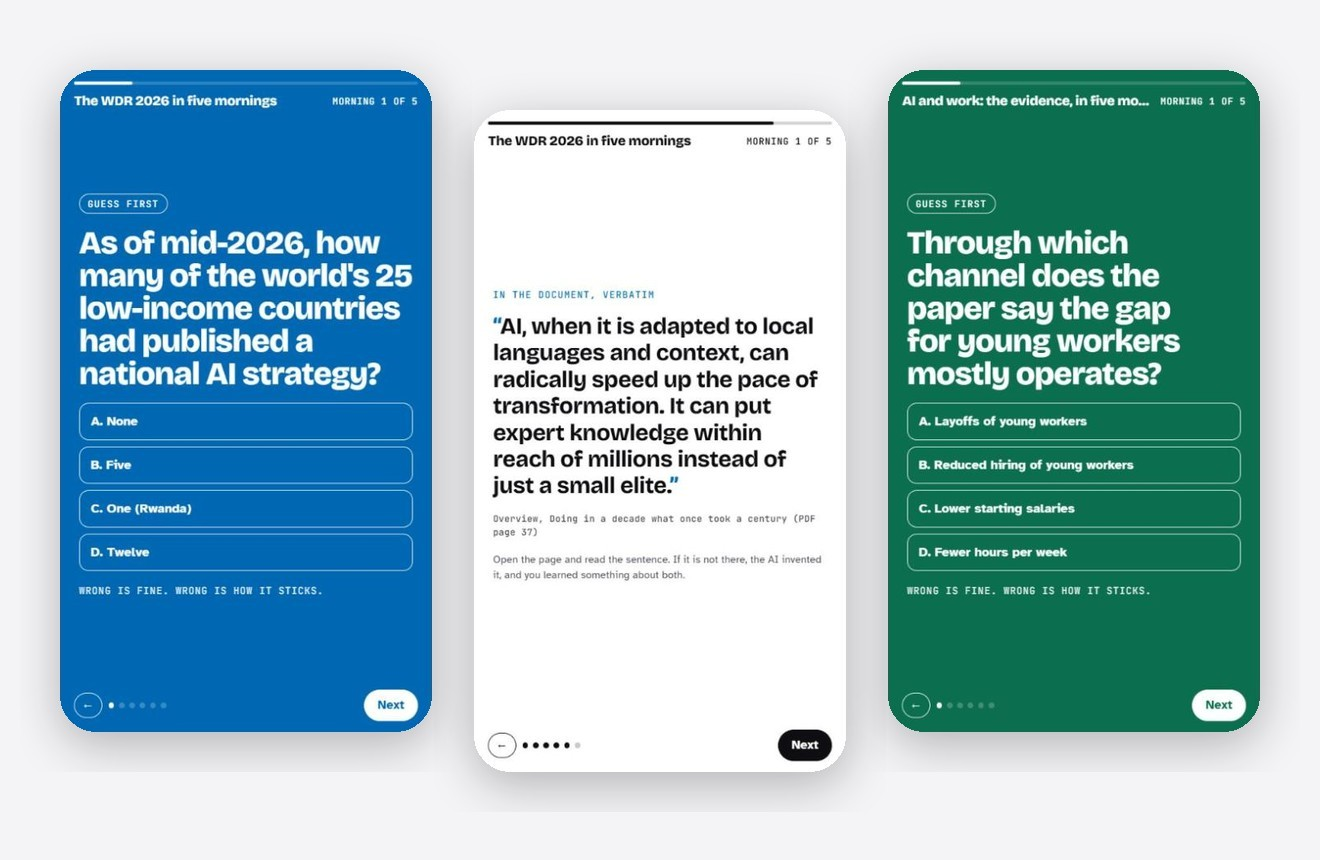
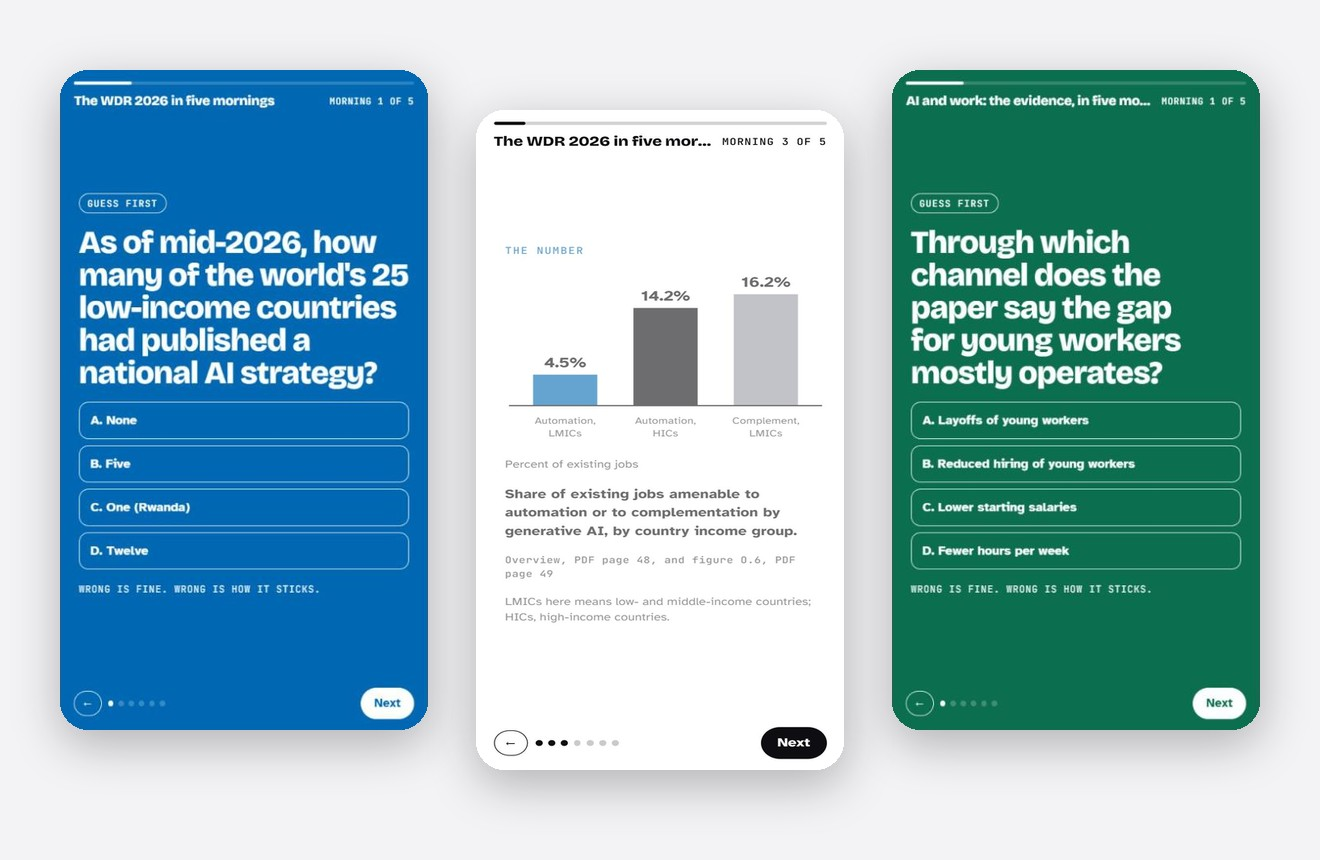
Five Mornings: a chart page in every morning, like Papers; hero shows it

diff --git a/course/course.html b/course/course.html
@@ -45,6 +45,9 @@ body { background:#e9e9ee; color:var(--ink); font-family:var(--f-body); margin:0
 .cita { font-family:var(--f-display); font-weight:700; font-size:clamp(1.3rem, 5.6vw, 1.8rem); line-height:1.15; letter-spacing:-.01em; margin:0; }
 .cita::before { content:"\201C"; color:var(--tema); } .cita::after { content:"\201D"; color:var(--tema); }
 .origen { font-family:var(--f-mono); font-size:.7rem; letter-spacing:.03em; color:var(--ink-2); line-height:1.5; margin:0; }
+.cifra-grande { font-family:var(--f-display); font-weight:800; font-size:clamp(3rem, 14vw, 4.4rem); line-height:.9; letter-spacing:-.03em; color:var(--tema); margin:0; }
+.leyenda { font-size:.98rem; line-height:1.45; margin:0; font-weight:700; }
+.grafico { width:100%; height:auto; display:block; } svg text { font-family:var(--f-body); }
 .recuerda { background:var(--tema); color:var(--tema-tinta); padding:16px 18px; border-radius:6px; font-family:var(--f-display); font-weight:700; font-size:1.2rem; line-height:1.2; margin:0; }
 .recuerda small { display:block; font-family:var(--f-mono); font-weight:500; font-size:.68rem; letter-spacing:.1em; text-transform:uppercase; opacity:.85; margin-bottom:6px; }
 .fuente { font-size:.88rem; color:var(--ink-2); line-height:1.6; border-top:1px solid var(--rule); padding-top:10px; }
@@ -159,6 +162,7 @@ function pagesFor(d){
   const half = Math.ceil(paras.length/2);
   const P = [];
   if (q) P.push({k:'q'}); P.push({k:'a'});
+  if (hasFig(d)) P.push({k:'fig'});
   P.push({k:'l', html: paras.slice(0, half).join('')}); if (paras.length > half) P.push({k:'l', html: paras.slice(half).join('')});
   if (d.quote && d.quote.text) P.push({k:'quote'});
   P.push({k:'do'});
@@ -180,6 +184,10 @@ function renderPage(){
   } else if (p.k==='a'){
     const ans = q ? `<p class="etiqueta">The answer</p><h2 class="respuesta"><mark>${esc(q.options[q.answer])}</mark></h2><p class="historia">${esc(q.explain||'')}</p>` : `<p class="etiqueta">Morning ${d.n}</p><h2 class="respuesta">${esc(d.title)}</h2>`;
     paint(Object.assign(common, { html:`${ans}<p class="nota">${esc(d.hook||'')}</p>`, abajo: nav(), onTap: tapNext }));
+  } else if (p.k==='fig'){
+    // "The number": the same page EvidencIA Papers gives every study. The chart is drawn from the figures in the JSON, so a number that is not in the file cannot appear here.
+    const f = d.figure;
+    paint(Object.assign(common, { html:`<p class="etiqueta">The number</p>${f.big ? `<p class="cifra-grande">${esc(f.big)}</p>` : ''}${barras(f)}<p class="leyenda">${esc(f.caption||'')}</p>${f.where ? `<p class="origen">${esc(f.where)}</p>` : ''}${f.note ? `<p class="nota">${esc(f.note)}</p>` : ''}`, abajo: nav(), onTap: tapNext }));
   } else if (p.k==='l'){
     paint(Object.assign(common, { html:`<p class="etiqueta">${esc(d.title)}</p><div class="historia">${p.html}</div>`, abajo: nav(), onTap: tapNext }));
   } else if (p.k==='quote'){
@@ -191,6 +199,29 @@ function renderPage(){
   }
 }
 function tapNext(e){ if (e.target.closest('a,button,input,textarea')) return; next(); }
+function hasFig(d){ return !!(d.figure && Array.isArray(d.figure.bars) && d.figure.bars.length >= 2); }
+function barras(f){
+  // Same bar chart as EvidencIA Papers: up to four bars, the course color first, values printed on top, labels cut to two short lines.
+  const bs = f.bars.slice(0,4), maxV = Math.max(...bs.map(b => Math.abs(b.value)), 1e-9);
+  const neg = bs.some(b => b.value < 0);
+  const W = 320, H = 210, w = (W - 20) / bs.length, top = 30, bottom = H - 46;
+  const cero = neg ? (top + bottom) / 2 : bottom, alto = neg ? (bottom - top) / 2 : bottom - top;
+  const pre = f.prefix || '', suf = f.suffix || '';
+  const valor = v => (v < 0 ? '−' : (neg && v > 0 ? '+' : '')) + pre + String(Math.abs(v)) + suf;
+  const lim = Math.max(10, Math.floor(w / 6.4));
+  const corte = (s, k) => { const out = ['', '']; let j = 0; for (const p of String(s).split(' ')){ if ((out[j] + ' ' + p).trim().length > lim && j === 0 && out[0]) j = 1; out[j] = (out[j] + ' ' + p).trim(); } return out[k].slice(0, lim + 4); };
+  const tema = (cur && cur.color) || '#2f4bff';
+  const tonos = [tema, '#0d0d12', '#9a9aa6', '#c9c9d2'];
+  const aria = bs.map(b => b.label + ' ' + valor(b.value)).join(', ');
+  return `<svg class="grafico" viewBox="0 0 ${W} ${H}" role="img" aria-label="${esc(aria)}">
+    ${bs.map((b, k) => { const h = (Math.abs(b.value) / maxV) * alto; const cx = 10 + k * w + w / 2; const y = b.value >= 0 ? cero - h : cero; const ty = b.value >= 0 ? cero - h - 9 : cero + h + 20; return `
+      <rect x="${cx - w * 0.32}" y="${y}" width="${w * 0.64}" height="${Math.max(h, 2)}" fill="${tonos[k % 4]}"/>
+      <text x="${cx}" y="${ty}" text-anchor="middle" font-size="17" font-weight="700" fill="#0d0d12">${esc(valor(b.value))}</text>
+      <text x="${cx}" y="${H - 24}" text-anchor="middle" font-size="11.5" fill="#4a4a55">${esc(corte(b.label, 0))}</text>
+      <text x="${cx}" y="${H - 9}" text-anchor="middle" font-size="11.5" fill="#4a4a55">${esc(corte(b.label, 1))}</text>`; }).join('')}
+    <line x1="4" y1="${cero}" x2="${W - 4}" y2="${cero}" stroke="#0d0d12" stroke-width="1.5"/>
+  </svg>${f.unit ? `<p class="nota">${esc(f.unit)}</p>` : ''}`;
+}
 function prev(){ if (page>0){ page--; renderPage(); } }
 function next(){
   const P = pagesFor(cur.days[curDay]);
@@ -224,10 +255,10 @@ function downloadIcs(){
 }
 
 /* MAKE */
-const SCHEMA = `{"id":"short-slug","title":"Course title","subtitle":"one witty line","emoji":"one emoji","color":"#hex","source":{"name":"document title","url":"link or empty","pages":0},"made_with":"one line on how it was made","audience":"who it is for","days":[{"n":1,"title":"max 7 words","hook":"one sentence on why this morning matters","lesson":"plain text, 3 or 4 paragraphs separated by blank lines, 230 to 290 words, teaches the actual content","quote":{"text":"verbatim sentence from the document, 15 to 45 words","where":"section and page number"},"question":{"q":"one guess-first question","options":["...","...","...","..."],"answer":"A","explain":"2 or 3 sentences with the page reference"},"do":"one 2-minute action on the reader's own work"}]}`;
+const SCHEMA = `{"id":"short-slug","title":"Course title","subtitle":"one witty line","emoji":"one emoji","color":"#hex","source":{"name":"document title","url":"link or empty","pages":0},"made_with":"one line on how it was made","audience":"who it is for","days":[{"n":1,"title":"max 7 words","hook":"one sentence on why this morning matters","lesson":"plain text, 3 or 4 paragraphs separated by blank lines, 230 to 290 words, teaches the actual content","quote":{"text":"verbatim sentence from the document, 15 to 45 words","where":"section and page number"},"figure":{"bars":[{"label":"short label","value":12.3},{"label":"short label","value":4.5}],"prefix":"","suffix":"%","big":"optional headline number as text, or empty","caption":"one line saying what the bars measure","where":"table or figure name and page number","note":"one line of context, or empty"},"question":{"q":"one guess-first question","options":["...","...","...","..."],"answer":"A","explain":"2 or 3 sentences with the page reference"},"do":"one 2-minute action on the reader's own work"}]}`;
 function makePrompt(){
   const doc = (LS.get('mDoc','')||'').trim() || 'the attached document'; const who = (LS.get('mWho','')||'').trim() || 'a busy colleague who should know this document but has never read it fully';
-  return `Read the attached document in full: ${doc}. If no document is attached and you cannot open it, say so and stop; never write it from memory. Turn it into a five-day micro-course for ${who}. One lesson per day, about three minutes to read, that teaches the ACTUAL content (what it says, the numbers, the examples, the exceptions), not generalities. Rules: every quote must be verbatim from the document with the PDF page number I can check (count from the cover of the file, not the printed folio); every claim must come from the document, no outside knowledge; plain English, one dry line of humor per day at most; no dashes as punctuation; lessons are plain text with no markdown or HTML. Answer in this chat as text, not as a file. Return ONLY valid JSON (no markdown fences, no commentary before or after) in exactly this schema, with exactly 5 items in "days", exactly 4 options per question, and "answer" as the letter of the correct option:\n${SCHEMA}`;
+  return `Read the attached document in full: ${doc}. If no document is attached and you cannot open it, say so and stop; never write it from memory. Turn it into a five-day micro-course for ${who}. One lesson per day, about three minutes to read, that teaches the ACTUAL content (what it says, the numbers, the examples, the exceptions), not generalities. Rules: every quote must be verbatim from the document with the PDF page number I can check (count from the cover of the file, not the printed folio); every claim must come from the document, no outside knowledge; plain English, one dry line of humor per day at most; no dashes as punctuation; lessons are plain text with no markdown or HTML. Each day has a "figure": 2 to 4 numbers from the document that sit on the same scale (shares, amounts, years, scores), copied exactly, with the page where I can check them; if a day's content has no such numbers, set "figure" to null rather than inventing or mixing scales. Answer in this chat as text, not as a file. Return ONLY valid JSON (no markdown fences, no commentary before or after) in exactly this schema, with exactly 5 items in "days", exactly 4 options per question, and "answer" as the letter of the correct option:\n${SCHEMA}`;
 }
 function renderMake(){
   setTema('#0d0d12'); history.replaceState(null,'','#make');
@@ -257,6 +288,12 @@ function validate(c){
   c.days.forEach((d, i) => {
     if (!d.title || !d.lesson) throw new Error('Morning ' + (i+1) + ' has no title or no lesson. Ask the AI to resend that morning.');
     d.lesson = toParas(d.lesson); d.hook = d.hook||''; d.do = d.do||''; d.n = i+1;
+    const f = d.figure;
+    if (f && typeof f === 'object' && Array.isArray(f.bars)){
+      f.bars = f.bars.slice(0,4).map(b => ({label:String(b && b.label != null ? b.label : ''), value:Number(b && b.value)})).filter(b => isFinite(b.value));
+      ['prefix','suffix','big','caption','where','note','unit'].forEach(k => { f[k] = f[k] == null ? '' : String(f[k]); });
+      if (f.bars.length < 2){ d.figure = null; warns.push(`Morning ${i+1}: the figure had fewer than two numbers, so it is hidden.`); }
+    } else d.figure = null;
     const words = d.lesson.replace(/<[^>]+>/g,' ').split(/\s+/).filter(Boolean).length; if (words > 450) warns.push(`Morning ${i+1} is ${words} words; three minutes is the design.`);
     if (d.question && d.question.q && Array.isArray(d.question.options)){ d.question.options = d.question.options.slice(0,4).map(String); d.question.answer = normAnswer(d.question.answer, d.question.options.length);
       if (d.question.answer < 0 || d.question.answer >= d.question.options.length){ warns.push(`Morning ${i+1}: the answer did not match an option, so the question is hidden.`); d.question = null; } }

diff --git a/course/index.html b/course/index.html
@@ -39,13 +39,13 @@
   <h1>Five<br>mornings</h1>
   <p class="dek">The report you downloaded in August. Three minutes a morning, on your phone. Five mornings and you have read it.</p>
   <p>Everyone has one. The flagship of your sector, the evaluation everyone quotes, the strategy you were cc'd on. You saved it for the flight; on the flight you slept.</p>
-  <p>So we asked AI to turn a long document into something you will actually finish. Each morning: one question before you read, because guessing first is how it sticks; a three-minute lesson; one verbatim quote with its page, so you can check the AI did not make it up; and one thing to do today.</p>
-  <div class="hero"><a href="course.html#c=wdr"><img src="img/hero_phones.jpg" alt="Three phone screens of the Five Mornings app: a question on a blue cover, a quote with its page, and a green cover for the evidence course"></a></div>
+  <p>So we asked AI to turn a long document into something you will actually finish. Each morning: one question before you read, because guessing first is how it sticks; the number, in one chart; a three-minute lesson; one verbatim quote with its page, so you can check the AI did not make it up; and one thing to do today.</p>
+  <div class="hero"><a href="course.html#c=wdr"><img src="img/hero_phones.jpg" alt="Three phone screens of the Five Mornings app: a question on a blue cover, a chart with the numbers from the report, and a green cover for the evidence course"></a></div>
   <div class="cap">Real screens from the app. Tap any of them.</div>
 
   <div class="block"><div class="bar" style="background:var(--blue)"></div><div>
     <div class="k" style="color:var(--blue)">1 &middot; Take</div><h2>The WDR 2026 in five mornings</h2>
-    <p>The Bank's own flagship on AI, 380 pages, out since 4 August. We gave the full PDF to an AI with one instruction: five mornings, the actual content, quote the page. Then we checked every quote against the PDF page. All five were there.</p>
+    <p>The Bank's own flagship on AI, 380 pages, out since 4 August. We gave the full PDF to an AI with one instruction: five mornings, the actual content, quote the page. Then we checked every quote and every number in the charts against the PDF page.</p>
     <a class="btn" style="background:var(--blue)" href="course.html#c=wdr">Start the WDR course &rarr;</a></div></div>
 
   <div class="block"><div class="bar" style="background:var(--ink)"></div><div>
